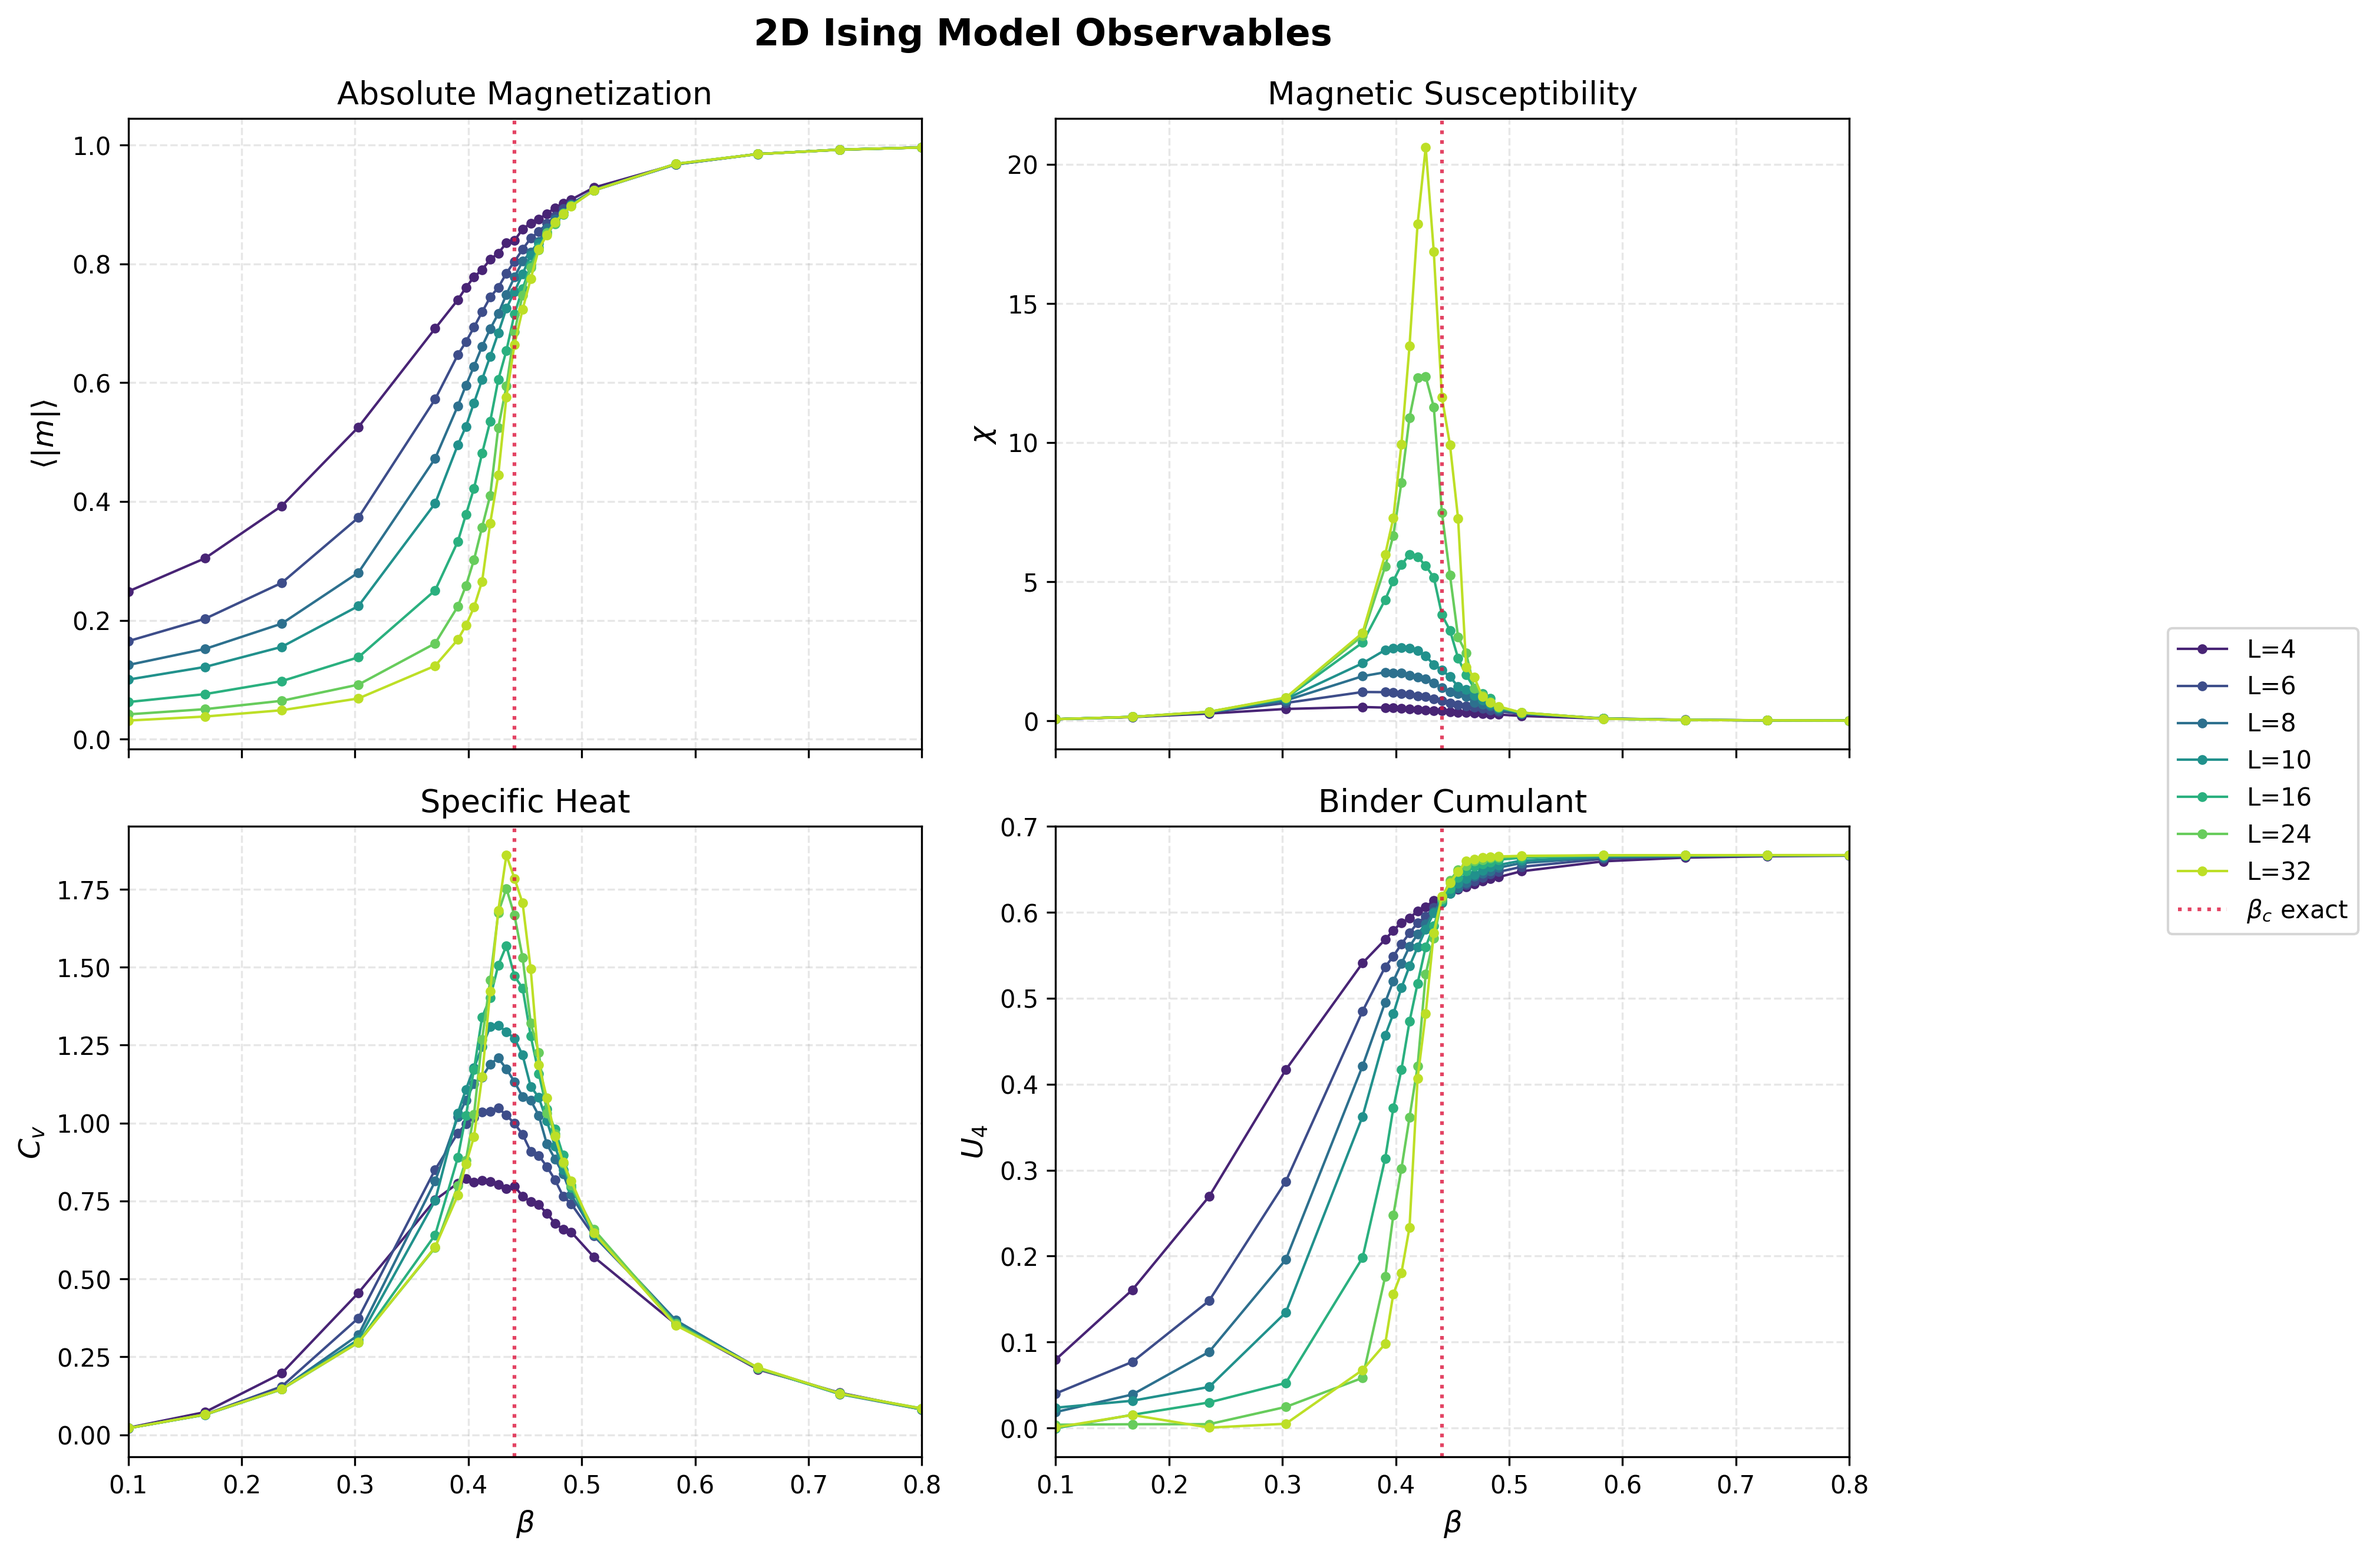
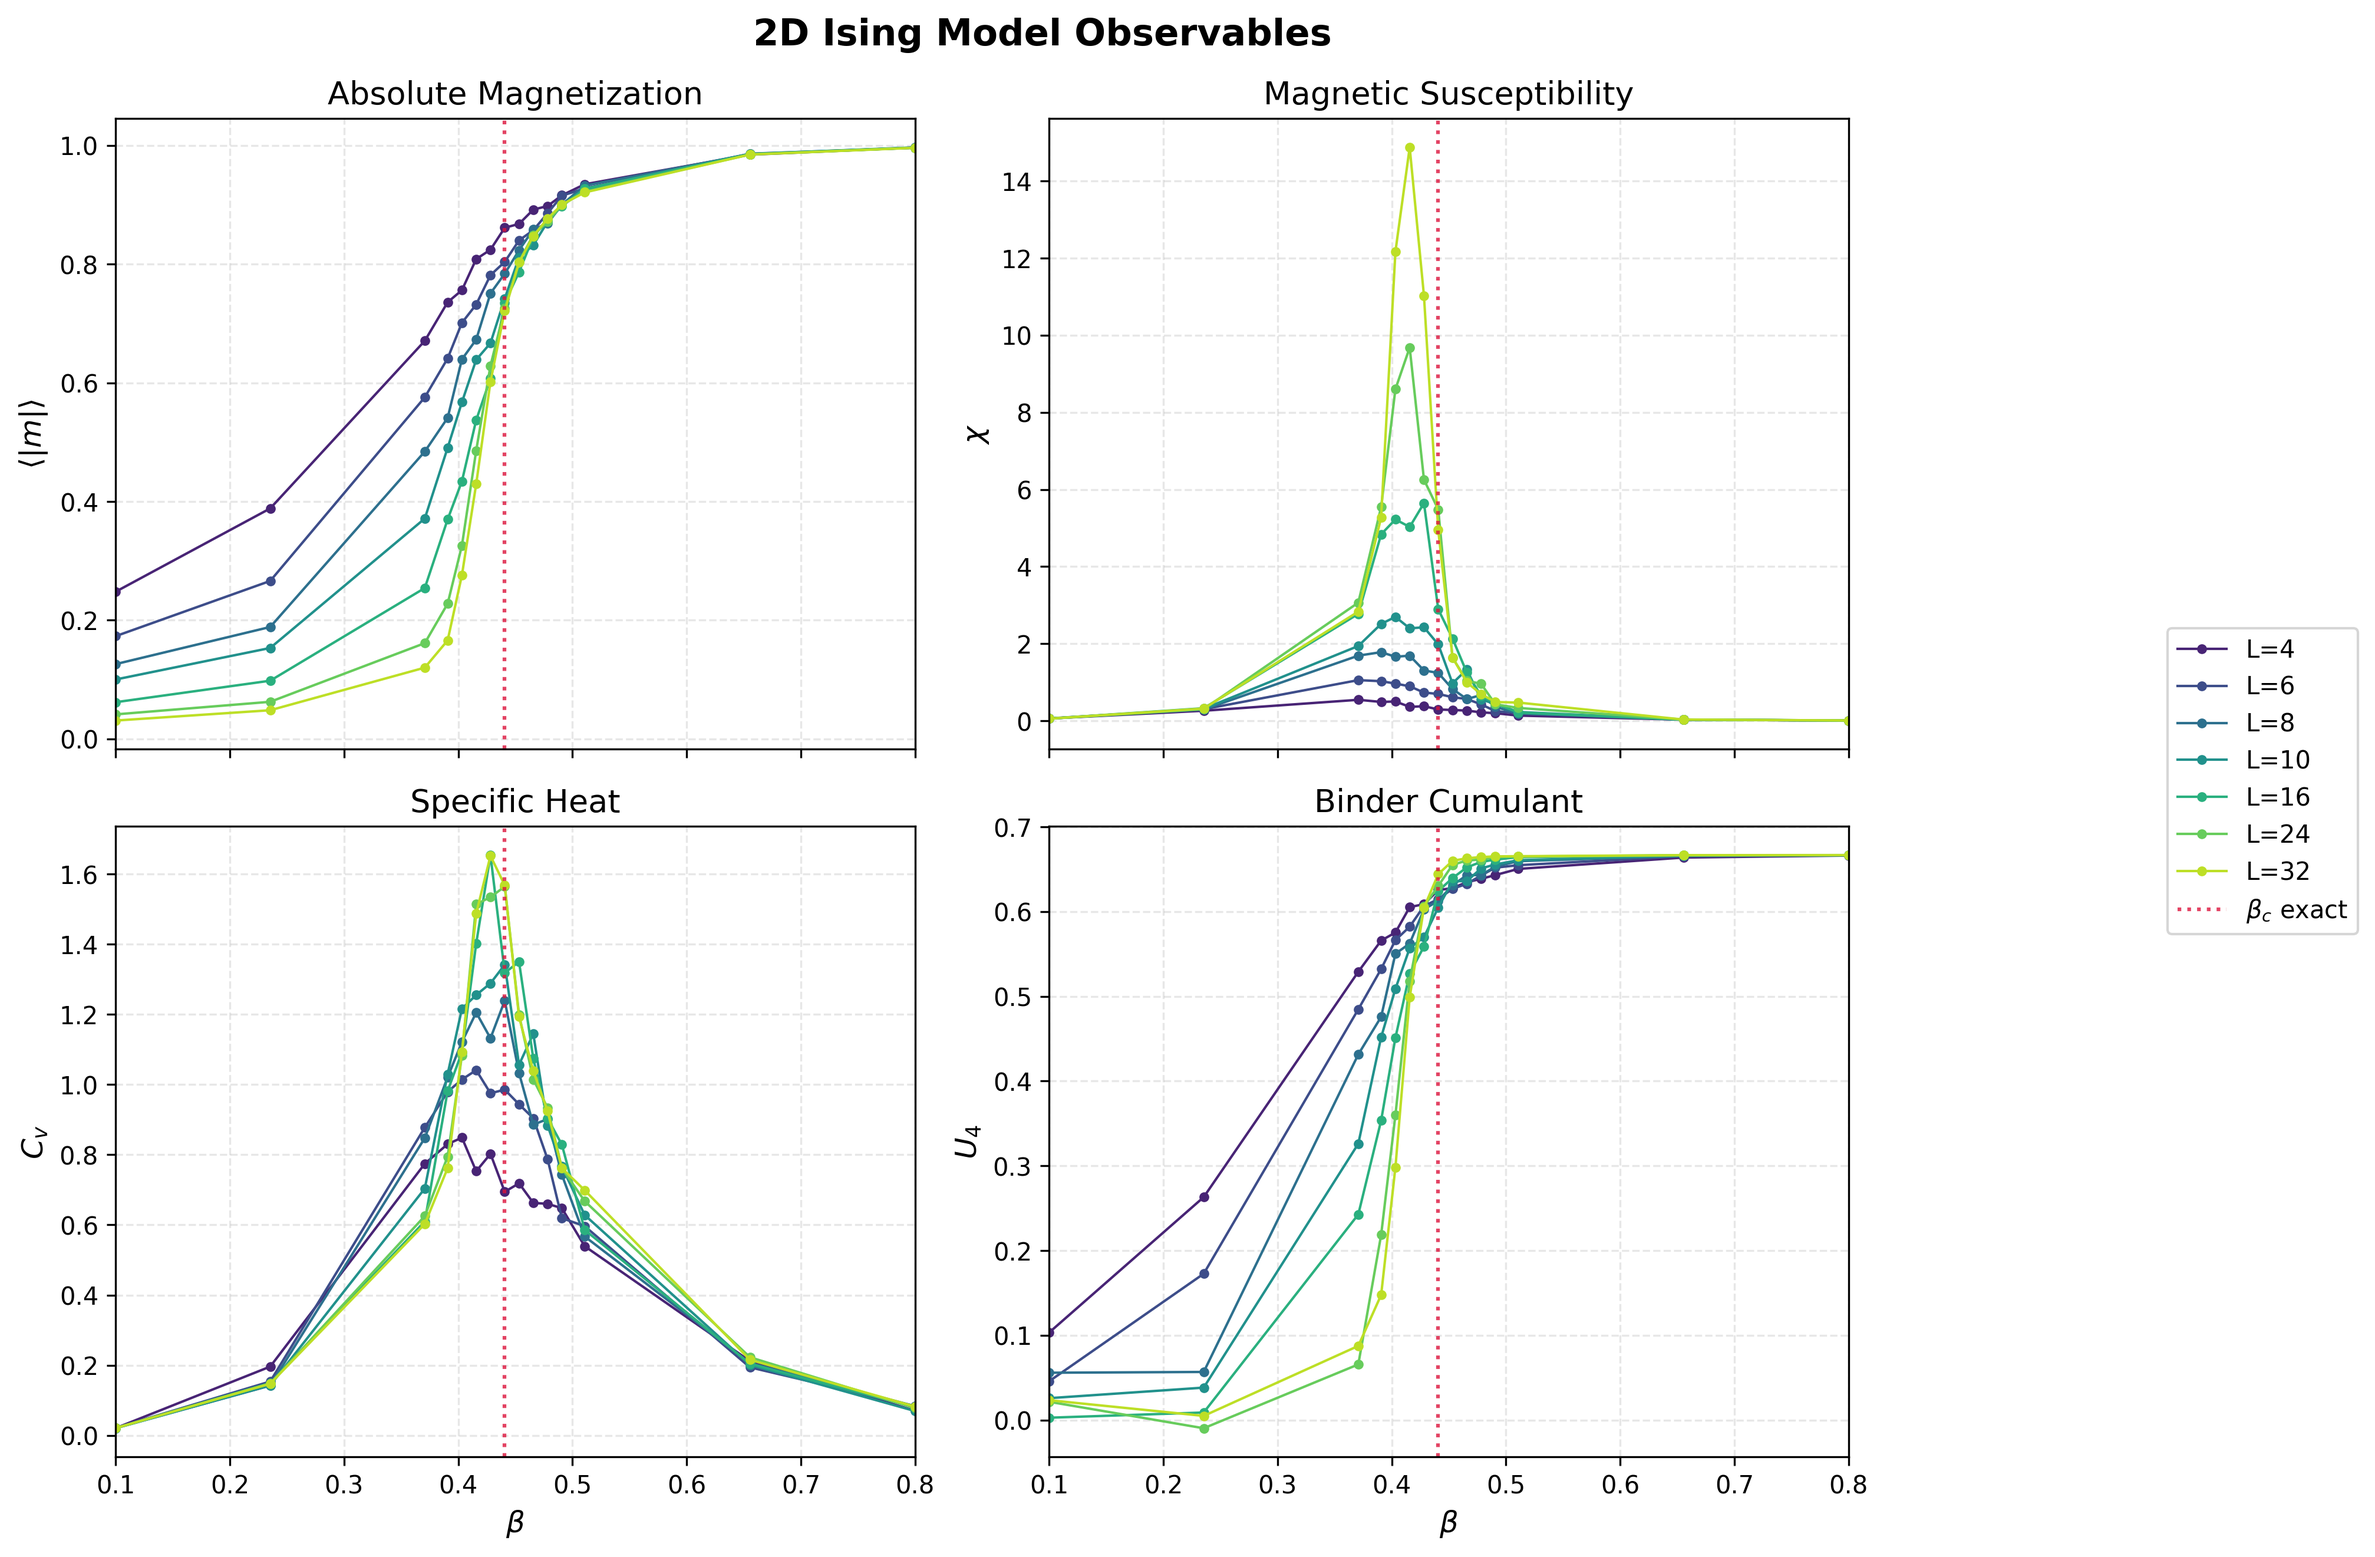
Clean up examples and images; Adjust examples to run with quenched interactions

diff --git a/examples/benchmark.py b/examples/benchmark.py
@@ -280,7 +280,7 @@ def benchmark_overlap_scaling(replicas_grid: List[int], n_spins: int = 64, repea
     for R in replicas_grid:
         if _GPUS:
             tf.config.experimental.reset_memory_stats('GPU:0')
-        state = tf.sign(tf.random.uniform((R, n_spins), minval=-1.0, maxval=1.0))
+        state = tf.sign(tf.random.uniform((1, R, n_spins), minval=-1.0, maxval=1.0))
 
         out = measurement.compute(spin_state=state)
         _sync()
@@ -336,7 +336,7 @@ def make_ising(R: int):
 def make_ea(R: int):
     L = 4
     nn = PeriodicNearestNeighborInteraction().generate(3, L)
-    rnd = BinaryRandomInteraction(J=1.0, seed=42).generate(3, L)
+    rnd = BinaryRandomInteraction(J=1.0, seed=42).generate(3, L, quenched=1)
     J = nn * rnd
     return EdwardsAndersonSystem(lattice_length=L, lattice_dim=3, lattice_replicas=R,
                                   interaction_matrix=J, initial_magnetization=0.0)
@@ -565,7 +565,7 @@ def main():
         N = L ** 3
         sweep_length = SWEEPS * N
         nn_mask = PeriodicNearestNeighborInteraction().generate(3, L)
-        random_J = BinaryRandomInteraction(J=1.0, seed=42).generate(3, L)
+        random_J = BinaryRandomInteraction(J=1.0, seed=42).generate(3, L, quenched=1)
         interaction_matrix = nn_mask * random_J
         system = EdwardsAndersonSystem(
             lattice_length=L, lattice_dim=3, lattice_replicas=replicas,
@@ -655,7 +655,7 @@ def main():
     L, N = 4, 64
     sweep_length = SWEEPS * N
     nn_mask = PeriodicNearestNeighborInteraction().generate(3, L)
-    random_J = BinaryRandomInteraction(J=1.0, seed=42).generate(3, L)
+    random_J = BinaryRandomInteraction(J=1.0, seed=42).generate(3, L, quenched=1)
     interaction_matrix = nn_mask * random_J
 
     measurement_overhead = []

diff --git a/src/spin_engine/interactions/standard.py b/src/spin_engine/interactions/standard.py
@@ -108,12 +108,12 @@ class GaussianInteraction(Interaction):
         self.seed = seed
         self.nearest_neighbor_only = nearest_neighbor_only
 
-    def generate(self, D: int, L: int, quenched: int) -> np.ndarray:
+    def generate(self, D: int, L: int, quenched: int = 1) -> np.ndarray:
         if self.seed is not None:
             np.random.seed(self.seed)
 
         N = L**D
-        J_flat = np.random.normal(self.mean, self.std, size=(quenched, N, N))
+        J_flat = np.random.normal(self.mean, self.std, size=(quenched, N, N)).astype(np.float32)
 
         J_flat = 0.5 * (J_flat + J_flat.transpose(0, 2, 1))
 
@@ -145,12 +145,12 @@ class BinaryRandomInteraction(Interaction):
         self.seed = seed
         self.nearest_neighbor_only = nearest_neighbor_only
 
-    def generate(self, D: int, L: int, quenched: int) -> np.ndarray:
+    def generate(self, D: int, L: int, quenched: int = 1) -> np.ndarray:
         if self.seed is not None:
             np.random.seed(self.seed)
 
         N = L**D
-        J_flat = np.random.choice([-self.J, self.J], size=(quenched, N, N))
+        J_flat = np.random.choice([-self.J, self.J], size=(quenched, N, N)).astype(np.float32)
 
         upper = np.triu(J_flat, 1)
         J_flat = upper + upper.transpose(0, 2, 1)
@@ -163,3 +163,4 @@ class BinaryRandomInteraction(Interaction):
             J_tensor = J_tensor * nn_mask[np.newaxis, ...]
 
         return J_tensor
+

diff --git a/examples/sk_glass.py b/examples/sk_glass.py
@@ -97,8 +97,8 @@ def _equilibrium_q2(results: dict, betas: list[float]):
     for beta in betas:
         pq = results[beta]["OverlapDistribution"]
         half = len(pq) // 2
-        q_flat = pq[half:]                # (steps, n_pairs)
-        q2_per_step = np.mean(q_flat ** 2, axis=1)
+        q_flat = pq[half:]                # (steps, 1, n_pairs)
+        q2_per_step = np.mean(q_flat ** 2, axis=2)
         q2_means.append(np.mean(q2_per_step))
         q2_stds.append(np.std(q2_per_step))
     return np.array(q2_means), np.array(q2_stds)
@@ -129,9 +129,9 @@ def plot_sk_results(
         last_beta = betas[-1]
         mag = results[last_beta]["Magnetization"]
         steps = np.arange(mag.shape[0]) * 100
-        for r in range(min(10, mag.shape[1])):
-            ax_mag.plot(steps, mag[:, r], alpha=0.3, linewidth=0.8)
-        ax_mag.plot(steps, np.mean(mag, axis=1), "k--", lw=2, label="Mean")
+        for r in range(min(10, mag.shape[2])):
+            ax_mag.plot(steps, mag[:, 0, r], alpha=0.3, linewidth=0.8)
+        ax_mag.plot(steps, np.mean(mag, axis=(1, 2)), "k--", lw=2, label="Mean")
         ax_mag.set_title(f"D={D}  Magnetization (β={last_beta})")
         ax_mag.set_xlabel("MC step")
         ax_mag.set_ylabel("m")

diff --git a/examples/wegner.py b/examples/wegner.py
@@ -24,12 +24,12 @@ def plot_wegner_system(system):
         ax: matplotlib.axes.Axes
     """
     spin_state = system.spin_state
-    _, ny, nx, _ = spin_state.shape
+    _, _, ny, nx, _ = spin_state.shape
 
     plaquettes = system.compute_all_plaquettes(spin_state)
-    plaquettes_2d = plaquettes[0, ..., 0].numpy()
+    plaquettes_2d = plaquettes[0, 0, ..., 0].numpy()
 
-    spin_vis = spin_state[0].numpy()
+    spin_vis = spin_state[0, 0].numpy()
 
     x_pts = []
     y_pts = []
@@ -162,10 +162,10 @@ def update(frame_idx):
 
     # Inline logic for speed/simplicity in this context:
     spin_state = system.spin_state
-    _, ny, nx, _ = spin_state.shape
+    _, _, ny, nx, _ = spin_state.shape
     plaquettes = system.compute_all_plaquettes(spin_state)
-    plaquettes_2d = plaquettes[0, ..., 0].numpy()
-    spin_vis = spin_state[0].numpy()
+    plaquettes_2d = plaquettes[0, 0, ..., 0].numpy()
+    spin_vis = spin_state[0, 0].numpy()
 
     x_pts = []
     y_pts = []

diff --git a/examples/tsp.py b/examples/tsp.py
@@ -69,7 +69,9 @@ for b in betas:
     annealing_history.append(tracker.history['Energy'].numpy())
     print(f"Finished sweep for beta={b:.2f}")
 
-full_energy_history = np.concatenate(annealing_history, axis=0)
+    # annealing_history has list of arrays of shape (steps, Q, R)
+    # We want shape (total_steps, R)
+    full_energy_history = np.concatenate(annealing_history, axis=0)[:, 0, :]
 
 
 def create_integrated_dashboard_tsp(G, system, all_active_nodes, W, energy_history):
@@ -82,7 +84,7 @@ def create_integrated_dashboard_tsp(G, system, all_active_nodes, W, energy_histo
 
     PENALTY_THRESHOLD = 90.0
 
-    replicas_spins = system.spin_state.value().numpy()
+    replicas_spins = system.spin_state.value().numpy()[0]
     total_steps = energy_history.shape[0]
 
     # OPTIMIZATION: Downsample energy history for plotting (max ~1000 points)

diff --git a/examples/ea_observables.py b/examples/ea_observables.py
@@ -162,8 +162,8 @@ def run_simulation(is_test: bool = False, force_run: bool = False):
             )
             
             # Extract data and discard burn-in
-            E_hist = tracker.history['Energy'].numpy()[burn_in_steps:, :] # shape: (steps, replicas)
-            pq_hist = tracker.history['OverlapDistribution'].numpy()[burn_in_steps:, :] # shape: (steps, num_pairs)
+            E_hist = tracker.history['Energy'].numpy()[burn_in_steps:, 0, :] # shape: (steps, replicas)
+            pq_hist = tracker.history['OverlapDistribution'].numpy()[burn_in_steps:, 0, :] # shape: (steps, num_pairs)
             
             # Normalize energy per spin
             e_hist = E_hist / N

diff --git a/examples/ising.py b/examples/ising.py
@@ -34,7 +34,7 @@ def run_simulation():
     # REMOVING L=64 will take our simulation from 12.6 hours to 3.8 hours
     L_list = [4, 6, 8, 10, 16, 24, 32]#, 64]
     lattice_replicas = 64
-    betas = generate_betas(25)
+    betas = generate_betas(15)
     
     granularity = 100
     
@@ -57,7 +57,7 @@ def run_simulation():
         interaction_matrix = PeriodicNearestNeighborInteraction().generate(2, L)
         
         # Define sweep length dynamically based on system size L to ensure proper equilibration
-        sweeps = 2000
+        sweeps = 100
         sweep_length = sweeps * N
             
         burn_in_steps = int((sweep_length / granularity) * 0.2)

diff --git a/src/spin_engine/models/sk.py b/src/spin_engine/models/sk.py
@@ -50,7 +50,7 @@ class SherringtonKirkpatrickSystem(IsingSystem):
         std = (self.J / np.sqrt(num_spins)) * np.sqrt(2)
         
         # Generate the fully connected interaction matrix shaped for L and D
-        interaction = GaussianInteraction(mean=0.0, std=std, seed=seed)
+        interaction = GaussianInteraction(mean=0.0, std=std, seed=seed, nearest_neighbor_only=False)
         interaction_matrix = interaction.generate(D=lattice_dim, L=lattice_length, quenched=1)[0]
 
         # Call the parent IsingSystem

diff --git a/src/spin_engine/models/edwards_anderson.py b/src/spin_engine/models/edwards_anderson.py
@@ -58,7 +58,6 @@ class EdwardsAndersonSystem(BaseSpinSystem):
         """
         p_up = 0.5 + 0.5 * tf.tanh(self.initial_magnetization)
 
-        # Generate random values for all replicas
         full_shape = [self.quenched_replicas, self.lattice_replicas] + self.shape
         rand_vals = tf.random.uniform(full_shape, dtype=tf.float32)
 
